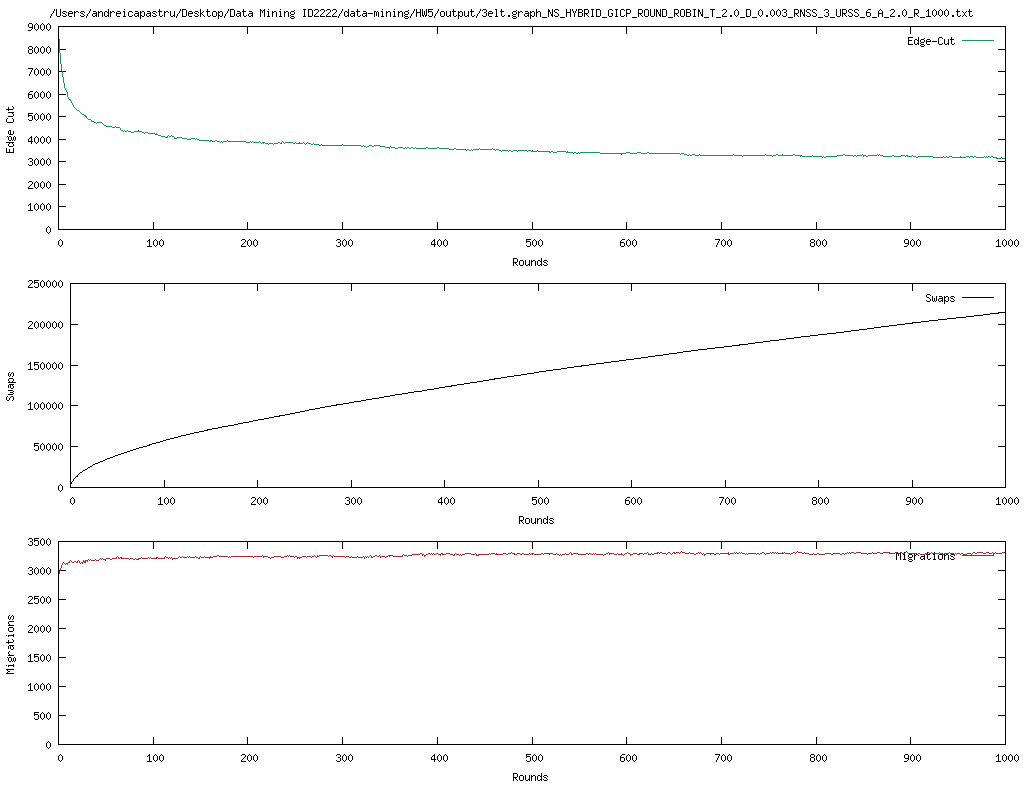
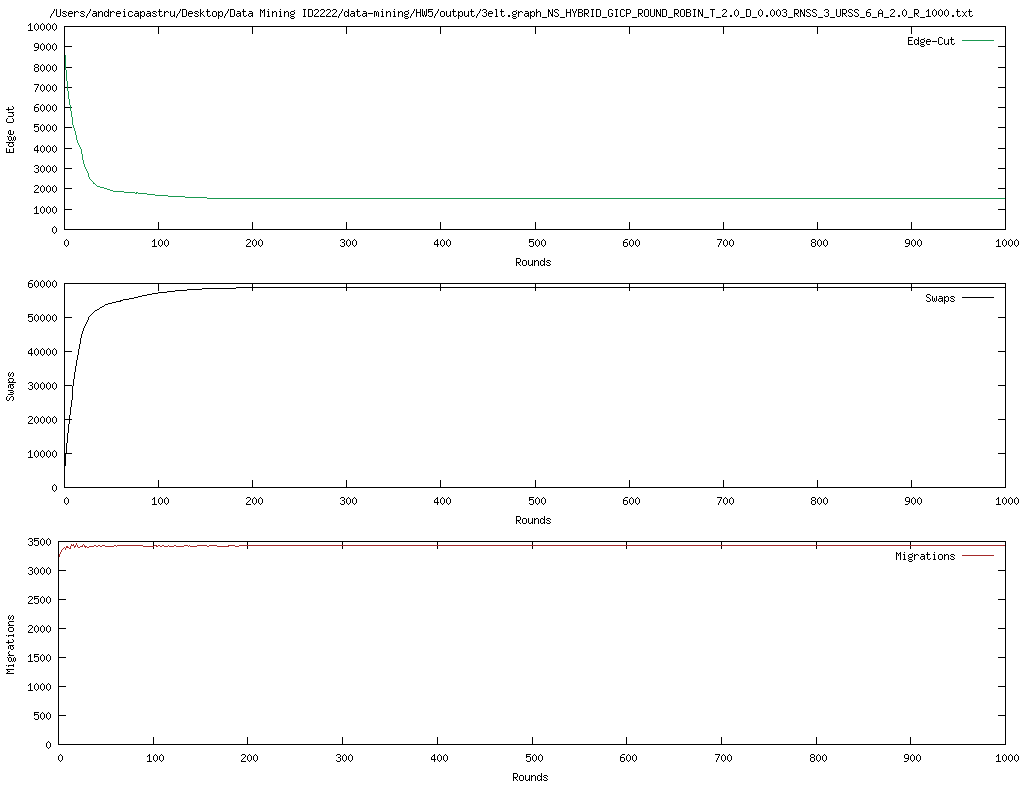
2nd and 3rd tasks

diff --git a/HW5/src/main/java/se/kth/jabeja/Jabeja.java b/HW5/src/main/java/se/kth/jabeja/Jabeja.java
@@ -22,6 +22,8 @@ public class Jabeja {
     Random random = new Random();
     private float momentum = 1.0f;
     private float prevBenefit = 0;
+    private float dT = 0;
+    private float T_prev;
 
     //-------------------------------------------------------------------
     public Jabeja(HashMap<Integer, Node> graph, Config config) {
@@ -36,12 +38,12 @@ public class Jabeja {
 
     //-------------------------------------------------------------------
     public void startJabeja() throws IOException {
-//        T = 2;
+        T = 1;
 
-        for (round = 0; round < config.getRounds(); round++) {
+        for (round = 0; round < config.getRounds()+2000; round++) {
             for (int id : entireGraph.keySet()) {
                 sampleAndSwap(id);
-//        if (round ==400) T=2; //restart
+                if (round % 400 == 0) T=1; //restart
             }
 
             //one cycle for all nodes have completed.
@@ -58,18 +60,21 @@ public class Jabeja {
      * Simulated analealing cooling function
      */
     private void saCoolDown(){
-        // TODO for second task
-        //task 1
-        if (T > 1)
-            T -= config.getDelta();
-        if (T < 1)
-            T = 1;
+        // TODO for second tasl
+//        task 1
+//        if (T > 1)
+//            T *= 0.95f;
+//        if (T < 1)
+//            T = 1;
 
-//        task 2
-//        T *= config.getDelta();
-//        if (T <= 0.00001f) T = 0.0001f;
-
-
+////        task 2 momentums
+//        T_prev = T;
+//        T = (float) (T - config.getDelta() - T*config.getDelta() - (round * dT/Math.pow(Math.E, round)));
+//        dT = T - T_prev;
+//
+//      if (T <= 0.0000001f) T = 0.0000001f;
+        T = (float) (T * Math.pow(config.getDelta(), T/round));
+        //bonus
 //        double T_min = 0.0001;
 //        if (T > T_min) {
 //          T = T * 0.9f;
@@ -137,32 +142,37 @@ public class Jabeja {
             double newE = Math.pow(dpq, alpha) + Math.pow(dqp, alpha);
 
             //Task 1 done:
-            if ((newE * this.T > oldE) && (newE > highestBenefit)) {
+//            if ((newE * this.T > oldE) && (newE > highestBenefit)) {
+//                bestPartner = nodeq;
+//                highestBenefit = newE;
+//            }
+
+
+            //Task 2, simulated anealing
+//            double acceptProbability = Math.pow(Math.E, (newE - oldE) / T); //original annealing
+            double acceptProbability = 1 / (1 + Math.pow(Math.E, (oldE - newE) / T));
+            double r = random.nextDouble();
+//            System.out.println("r=" + r);
+//            System.out.println("ap = " + acceptProbability);
+            if ((acceptProbability > r) && (newE > highestBenefit)) {
                 bestPartner = nodeq;
                 highestBenefit = newE;
             }
 
 
-            //Task 2, simulated anealing
-//            double acceptProbability = Math.pow(Math.E, (newdeg - olddeg) / T);
-//
-//            if ((acceptProbability > random.nextDouble()) && (newdeg > highestBenefit)) {
-//                bestPartner = nodeq;
-//                highestBenefit = newdeg;
-//            }
-
-
             //Bonus
-//            momentum = Math.max(0, momentum * (float)(newdeg - prevBenefit));
-//            double acceptProbability = Math.pow(Math.E, (newdeg + momentum - olddeg)/T);
+//            momentum = Math.max(0, momentum * (float)(newE - prevBenefit));
 //
-//            if ((acceptProbability > random.nextDouble()) && (newdeg > highestBenefit)) {
+//            double acceptProbability = Math.pow(Math.E, (newE + momentum - oldE)/T);
+//
+//            if ((acceptProbability > random.nextDouble()) && (newE > highestBenefit)) {
 //                bestPartner = nodeq;
-//                highestBenefit = newdeg;
+//                highestBenefit = newE;
 //            }
 
             }
-//          prevBenefit = (float) highestBenefit;
+
+//            prevBenefit = (float) highestBenefit;
             return bestPartner;
         }
 

diff --git a/HW5/src/main/java/se/kth/jabeja/io/CLI.java b/HW5/src/main/java/se/kth/jabeja/io/CLI.java
@@ -52,7 +52,7 @@ public class CLI {
   private NodeSelectionPolicy nodeSelectionPolicy = NodeSelectionPolicy.HYBRID;
 
   @Option(name = "-graph", usage = "Location of the input graph.")
-  private static String GRAPH = "./graphs/3elt.graph";
+  private static String GRAPH = "./graphs/Twitter.graph";
 
   @Option(name = "-outputDir", usage = "Location of the output file(s)")
   private static String OUTPUT_DIR = "./output";
